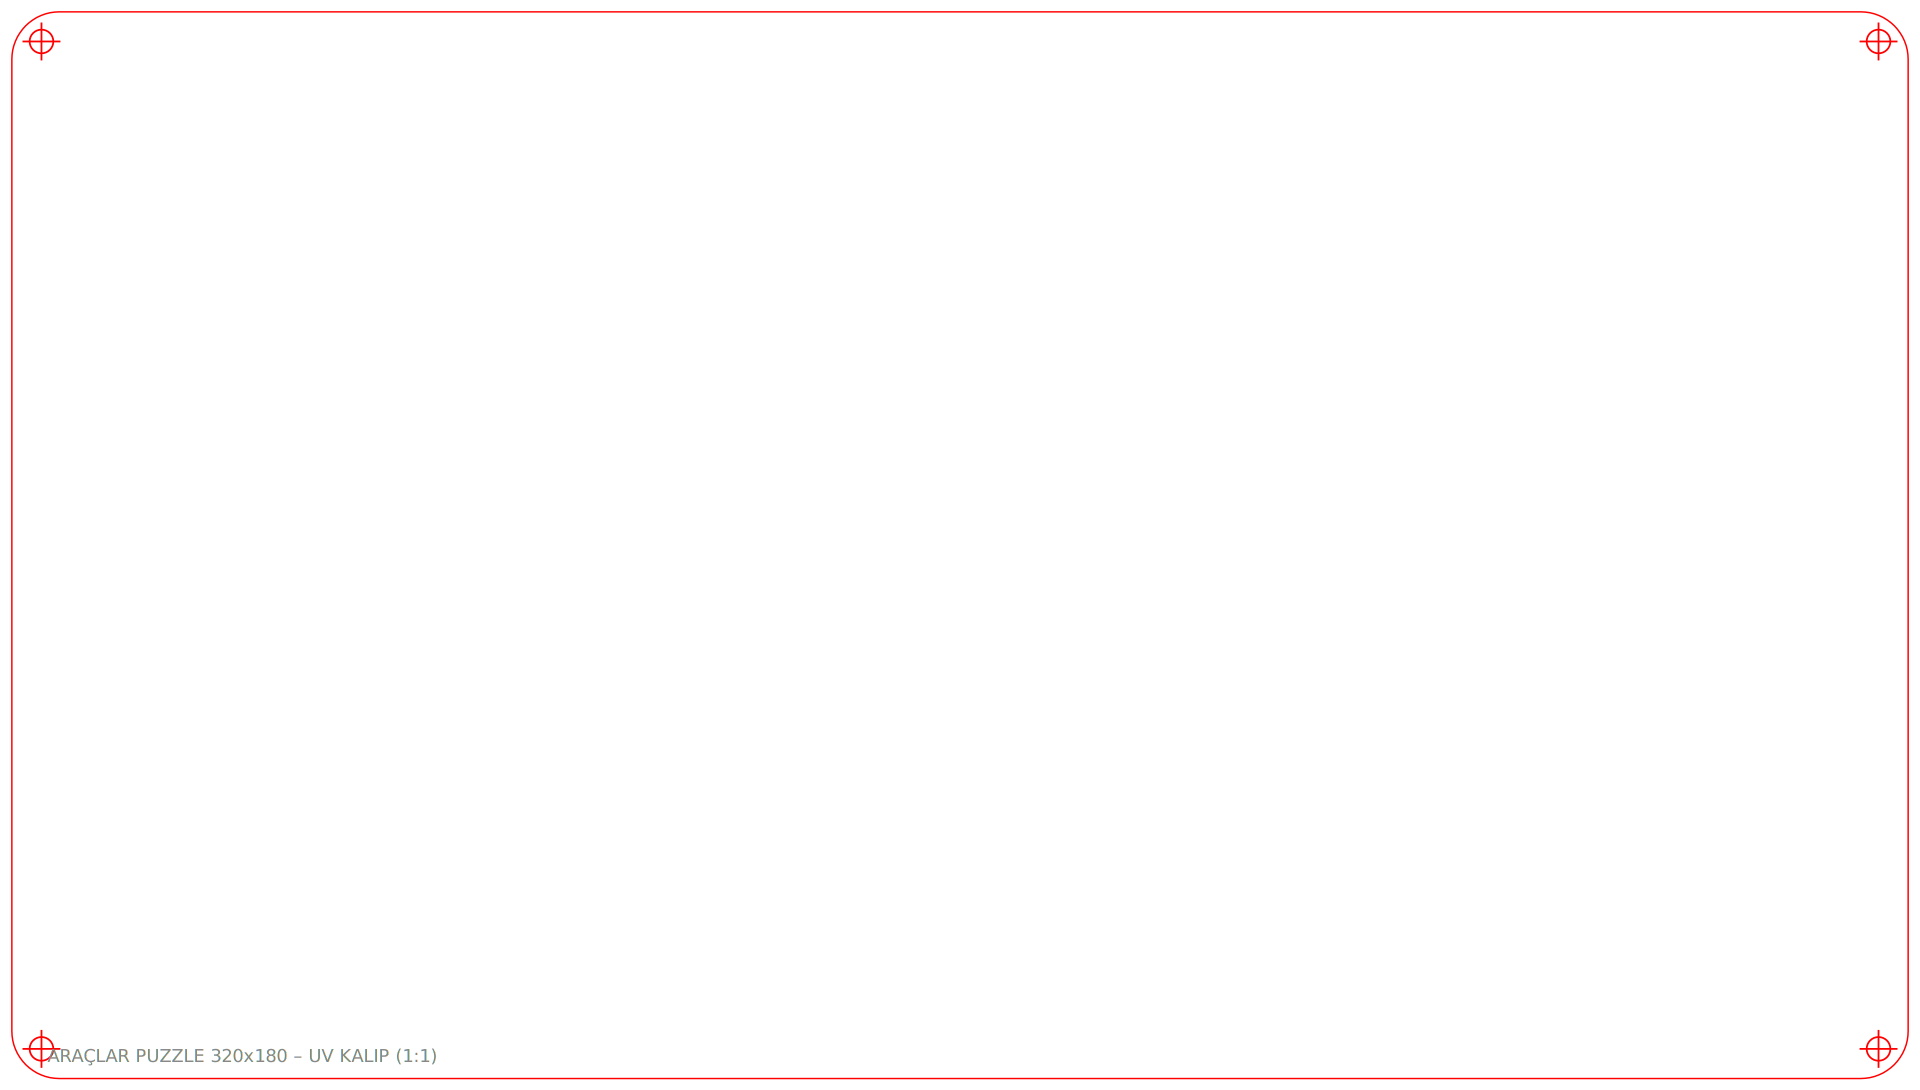
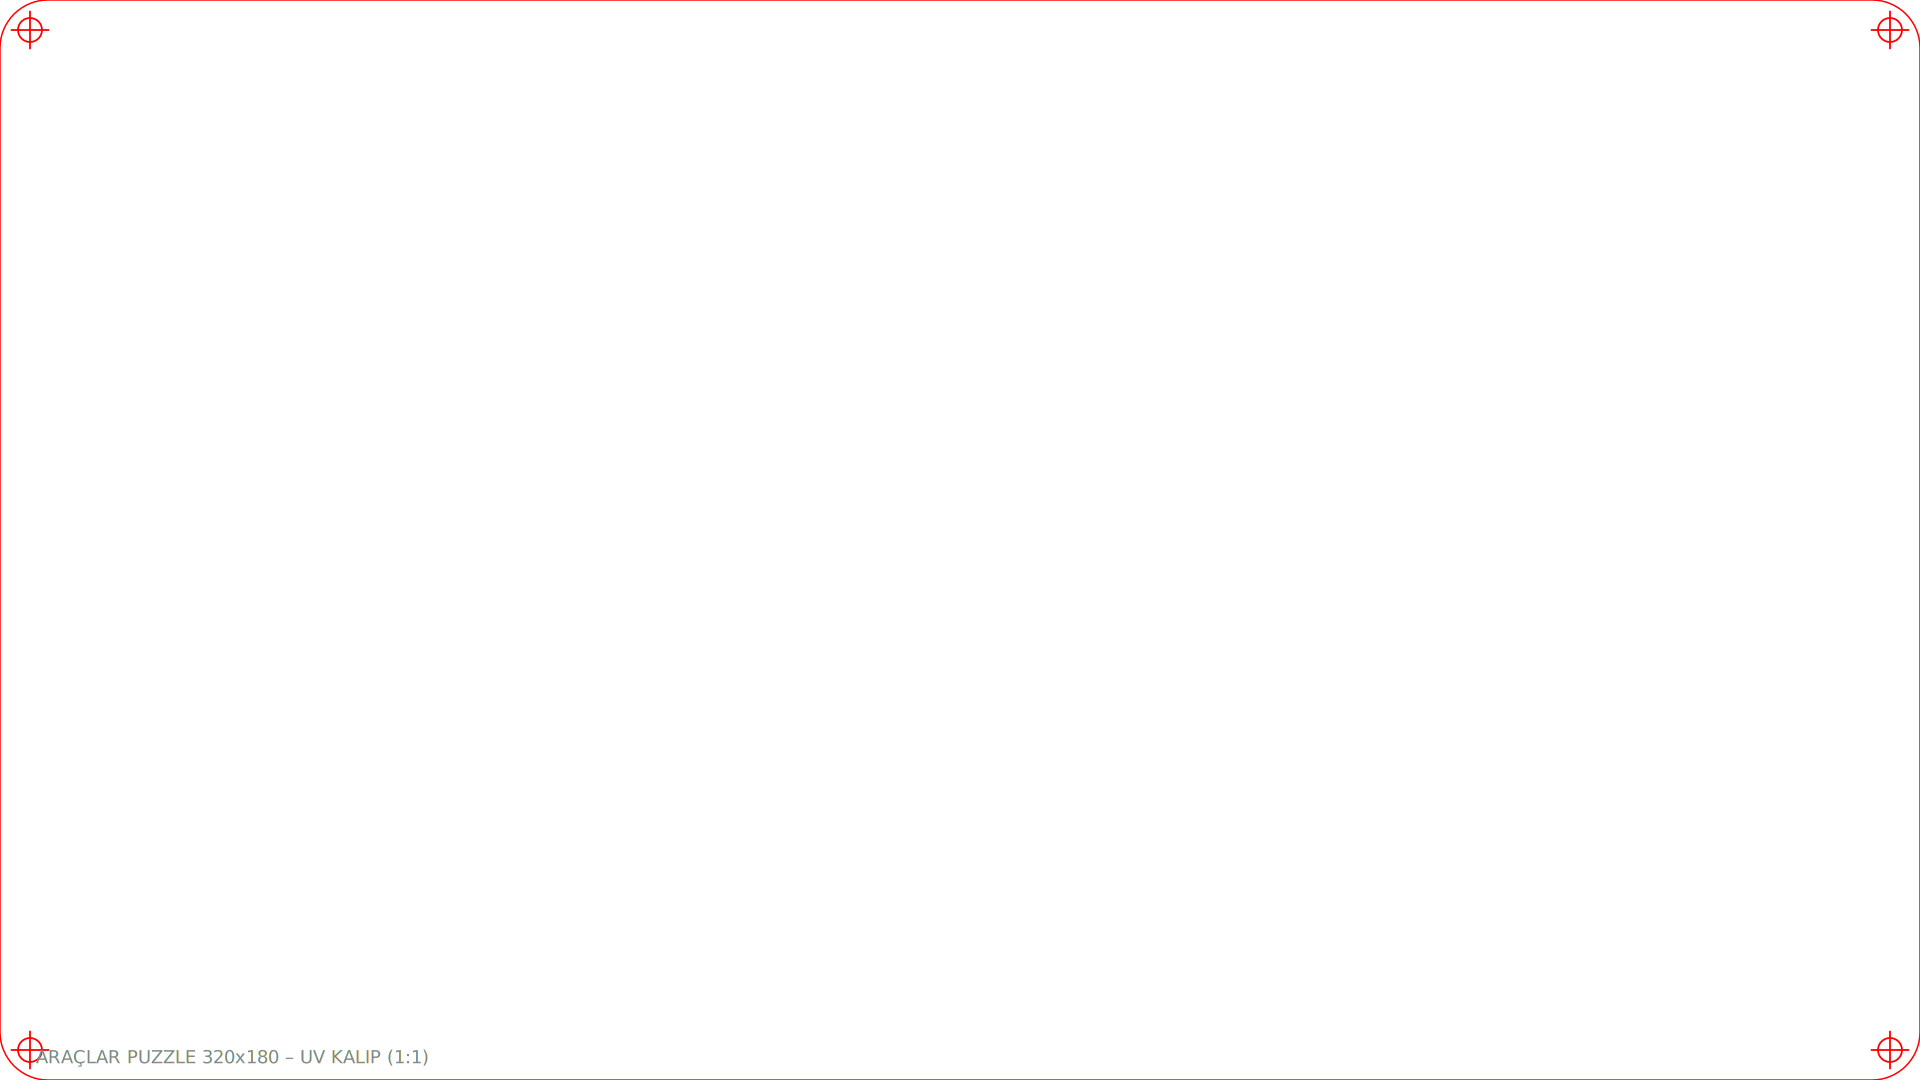
Kalıbı 320x180 sabit tut; baskı merkezini kalıp merkezine ortala
Kalıp fiziksel yerleştirme jigi olduğu için 320x180 sabit kalmalı
(önceki commit'te yanlışlıkla 324x184 yapılmıştı, geri alındı). Baskı
324x184 ve tasarım tam ortalı; kalıbın merkezine ortalanınca dört
kenardan eşit 2 mm taşar. Köşe hiza haçları çakışmayı doğrulamak için
kalıyor. README'ler ve CLAUDE.md düzeltildi; çıktılar yeniden üretildi.

Claude-Session: https://claude.ai/code/session_015zj8pUg8LRttqFTuE3tqHt

Changed region(s): [[0.0, 0.9472, 1.0, 1.0], [0.9688, 0.0, 1.0, 0.0611], [0.0, 0.0, 0.0312, 0.0611]]

diff --git a/temalar/araclar/olustur.py b/temalar/araclar/olustur.py
@@ -1324,17 +1324,18 @@ def uret_baski_svg(yuva_goster=False):
 
 
 def uret_kalip_svg():
-    """UV hizalama kalıbı: dış çerçeve + 4 köşe hiza haçı. Baskıyla BİREBİR
-    çakışsın diye baskıyla aynı sayfa (324x184) ve 2 mm bleed ofseti kullanır."""
-    icerik = [f'<g transform="translate({BLEED},{BLEED})">',
-              _el("path", d=yol_svg(cerceve_poly()), fill="none", stroke="#FF0000",
+    """UV hizalama kalıbı: 320x180 (ürün yerleştirme jigi) — dış çerçeve + 4 köşe
+    hiza haçı. Kalıp boyu SABİT 320x180. Baskı (324x184) bu kalıbın MERKEZİNE
+    hizalanır; tasarım her kenardan 2 mm taşar (bleed). Baskının tasarım merkezi
+    zaten sayfa merkeziyle (162x92) çakışır, yani kalıp merkezine ortalanınca
+    dört kenardan eşit 2 mm taşar."""
+    icerik = [_el("path", d=yol_svg(cerceve_poly()), fill="none", stroke="#FF0000",
                   stroke_width=0.25)]
     icerik += hiza_isaretleri("#FF0000")
     icerik.append(_el("text", x=6, y=177.2,
                       icerik="ARAÇLAR PUZZLE 320x180 – UV KALIP (1:1)",
                       fill="#888888", font_size="3", font_family="sans-serif"))
-    icerik.append("</g>")
-    return svg_belge(W + 2 * BLEED, H + 2 * BLEED, icerik)
+    return svg_belge(W, H, icerik)
 
 
 def uret_golge_svg():

diff --git a/temalar/deniz_canlilari/olustur.py b/temalar/deniz_canlilari/olustur.py
@@ -538,17 +538,16 @@ def uret_baski_svg(yuva_goster=False):
 
 
 def uret_kalip_svg():
-    """Dış çerçeve + 4 köşe hiza haçı; baskıyla birebir çakışsın diye baskıyla
-    aynı sayfa (324x184) ve 2 mm bleed ofseti kullanır."""
-    icerik = [f'<g transform="translate({BLEED},{BLEED})">',
-              _el("path", d=yol_svg(cerceve_poly()), fill="none", stroke="#FF0000",
+    """UV hizalama kalıbı: 320x180 (ürün yerleştirme jigi) — dış çerçeve + 4 köşe
+    hiza haçı. Kalıp boyu SABİT 320x180. Baskı (324x184) bu kalıbın MERKEZİNE
+    hizalanır; tasarım her kenardan 2 mm taşar (bleed)."""
+    icerik = [_el("path", d=yol_svg(cerceve_poly()), fill="none", stroke="#FF0000",
                   stroke_width=0.25)]
     icerik += hiza_isaretleri("#FF0000")
     icerik.append(_el("text", x=6, y=177.2,
                       icerik="DENİZ CANLILARI PUZZLE 320x180 – UV KALIP (1:1)",
                       fill="#888888", font_size="3", font_family="sans-serif"))
-    icerik.append("</g>")
-    return svg_belge(W + 2 * BLEED, H + 2 * BLEED, icerik)
+    return svg_belge(W, H, icerik)
 
 
 def uret_golge_svg():

diff --git a/temalar/is_makineleri/olustur.py b/temalar/is_makineleri/olustur.py
@@ -688,17 +688,16 @@ def uret_baski_svg(yuva_goster=False):
 
 
 def uret_kalip_svg():
-    """Dış çerçeve + 4 köşe hiza haçı; baskıyla birebir çakışsın diye baskıyla
-    aynı sayfa (324x184) ve 2 mm bleed ofseti kullanır."""
-    icerik = [f'<g transform="translate({BLEED},{BLEED})">',
-              _el("path", d=yol_svg(cerceve_poly()), fill="none", stroke="#FF0000",
+    """UV hizalama kalıbı: 320x180 (ürün yerleştirme jigi) — dış çerçeve + 4 köşe
+    hiza haçı. Kalıp boyu SABİT 320x180. Baskı (324x184) bu kalıbın MERKEZİNE
+    hizalanır; tasarım her kenardan 2 mm taşar (bleed)."""
+    icerik = [_el("path", d=yol_svg(cerceve_poly()), fill="none", stroke="#FF0000",
                   stroke_width=0.25)]
     icerik += hiza_isaretleri("#FF0000")
     icerik.append(_el("text", x=6, y=177.2,
                       icerik="IS MAKINELERI PUZZLE 320x180 – UV KALIP (1:1)",
                       fill="#888888", font_size="3", font_family="sans-serif"))
-    icerik.append("</g>")
-    return svg_belge(W + 2 * BLEED, H + 2 * BLEED, icerik)
+    return svg_belge(W, H, icerik)
 
 
 def uret_golge_svg():

diff --git a/CLAUDE.md b/CLAUDE.md
@@ -73,7 +73,7 @@ DXF layers (both boards laid out side by side in one file):
 - `YAZI` — non-cut labels (turn this layer off in the laser software).
 - `HIZA` — non-cut print↔cut registration marks (four crosshair-in-circle fiducials).
 
-Print/cut registration: `uret_baski_svg`, `uret_kalip_svg`, and the DXF `HIZA` layer all carry the same four corner fiducials (via `hiza_isaretleri()`), placed at `(5,5),(W-5,5),(5,H-5),(W-5,H-5)` — outside the rounded frame, in the square-corner waste that the cut discards, so they never show on the toy. The template PDF is emitted at the print's page size (324×184 with the 2 mm bleed offset) so it overlays the print 1:1. Aligning the printed board to the cut by these four marks fully constrains position, rotation, and scale — this is what fixes print-shifted-relative-to-cut drift, which is otherwise a production-side scaling/positioning error (the geometry itself already registers to one 320×180 trim).
+Print/cut registration: `uret_baski_svg`, `uret_kalip_svg`, and the DXF `HIZA` layer all carry the same four corner fiducials (via `hiza_isaretleri()`), placed at `(5,5),(W-5,5),(5,H-5),(W-5,H-5)` — outside the rounded frame, in the square-corner waste that the cut discards, so they never show on the toy. The template (kalıp) PDF stays a fixed **320×180** — it is the physical placement jig for the product, so its size must not change. The print PDF is **324×184** with the design centered (design center = page center = 162×92), so when the print is centered on the 320×180 template it overhangs an equal 2 mm bleed on every edge. Register by centering print-on-template (and matching the four marks); the geometry already resolves to one 320×180 trim, so residual print-shifted-relative-to-cut drift is a production-side scaling/positioning error, not a file error.
 
 Preview PNGs render the notches; the print PDFs never do. Note the exact preview set varies by theme (`araclar` also emits `*_kalip_onizleme.png`); the four core production files are always the same.
 

diff --git a/temalar/araclar/README.md b/temalar/araclar/README.md
@@ -29,7 +29,7 @@ Beyaz mürekkep (alt zemin) dosyası bu üretimde **kullanılmıyor** — UV mak
 
 ### Baskı–kesim hizası (register)
 
-Baskı ile kesimin kaymaması için **dört köşe hiza haçı** kullanılır; aynı koordinatta hem baskıda hem kalıpta hem DXF'in `HIZA` katmanında bulunur. Operatör baskılı tahtayı lazere yerleştirirken bu dört noktayı DXF'teki haçlarla çakıştırır — böylece konum, açı **ve ölçek** tam sabitlenir. Kalıp PDF'i, baskıyla birebir üst üste gelsin diye baskıyla aynı sayfa ölçüsündedir (324 × 184 mm, 2 mm bleed). "Baskı kalıba göre kayık" sorunu neredeyse her zaman baskının yanlış ölçek/konumda basılmasından kaynaklanır (dosya geometrisi zaten tek 320 × 180 tırıma oturur); dört haçtan hizalamak bunu giderir.
+**Kalıp SABİT 320 × 180 mm'dir** — ürünün yerleştirildiği fiziksel jigdir, boyu değişmez. Baskı **324 × 184 mm**'dir ve tasarım tam ortalıdır (tasarım merkezi = sayfa merkezi = 162 × 92). Baskıyı **kalıbın merkezine** ortalayınca tasarım dört kenardan **eşit 2'şer mm taşar** (bleed). Ek güvence için baskı, kalıp ve DXF'in `HIZA` katmanında **aynı koordinatta dört köşe hiza haçı** vardır (yuvarlatılmış çerçeve dışı fire alanı, kesince atılır); operatör baskıyı kalıba ortalarken bu dört haçın çakıştığını kontrol edebilir. "Baskı kalıba göre kayık" sorunu neredeyse her zaman baskının yanlış ölçek/konumda basılmasından kaynaklanır (dosya geometrisi zaten tek 320 × 180 merkeze oturur); baskıyı %100 ölçekte basıp kalıp merkezine ortalamak bunu giderir.
 
 ### Marka logosu
 

diff --git a/temalar/deniz_canlilari/README.md b/temalar/deniz_canlilari/README.md
@@ -25,7 +25,7 @@ Beyaz mürekkep dosyası kullanılmıyor. Gölge siluetleri 0,4 mm içeri alınm
 - `UST_KATMAN_KESIM` (kırmızı): dış çerçeve + 8 canlı konturu + **8 parmak yuvası hilali** (R 5,5 mm, her cebin açık tarafında).
 - `ALT_KATMAN_KESIM` (mavi): düz taban panosu.
 - `YAZI` (gri): etiketler — kesilmez, lazer yazılımında kapatın.
-- `HIZA` (sarı): **kesilmez** — baskı↔kesim hizası için dört köşe register haçı (aynı haçlar baskı ve kalıp PDF'inde de var; köşe fire alanında, kesince atılır). Operatör baskılı tahtayı bu dört noktadan kesime çakıştırır; konum + açı + ölçek sabitlenir. Kalıp PDF'i baskıyla birebir çakışsın diye 324 × 184 mm'dir.
+- `HIZA` (sarı): **kesilmez** — baskı↔kesim hizası için dört köşe register haçı (aynı haçlar baskı ve kalıp PDF'inde de var; köşe fire alanında, kesince atılır). **Kalıp SABİT 320 × 180 mm** (ürün yerleştirme jigi). Baskı 324 × 184 ve tasarım ortalı; baskıyı kalıbın **merkezine** ortalayınca her kenardan eşit 2 mm taşar. Dört haçın çakışması hizayı doğrular.
 
 ### Baskı içeriği
 

diff --git a/temalar/is_makineleri/README.md b/temalar/is_makineleri/README.md
@@ -25,7 +25,7 @@ Beyaz mürekkep dosyası kullanılmıyor. Gölge siluetleri 0,4 mm içeri alınm
 - `UST_KATMAN_KESIM` (kırmızı): dış çerçeve + 8 makine konturu + **8 parmak yuvası hilali** (R 5,5 mm, her cebin açık tarafında).
 - `ALT_KATMAN_KESIM` (mavi): düz taban panosu.
 - `YAZI` (gri): etiketler — kesilmez, lazer yazılımında kapatın.
-- `HIZA` (sarı): **kesilmez** — baskı↔kesim hizası için dört köşe register haçı (aynı haçlar baskı ve kalıp PDF'inde de var; köşe fire alanında, kesince atılır). Operatör baskılı tahtayı bu dört noktadan kesime çakıştırır; konum + açı + ölçek sabitlenir. Kalıp PDF'i baskıyla birebir çakışsın diye 324 × 184 mm'dir.
+- `HIZA` (sarı): **kesilmez** — baskı↔kesim hizası için dört köşe register haçı (aynı haçlar baskı ve kalıp PDF'inde de var; köşe fire alanında, kesince atılır). **Kalıp SABİT 320 × 180 mm** (ürün yerleştirme jigi). Baskı 324 × 184 ve tasarım ortalı; baskıyı kalıbın **merkezine** ortalayınca her kenardan eşit 2 mm taşar. Dört haçın çakışması hizayı doğrular.
 
 ### Baskı içeriği
 
